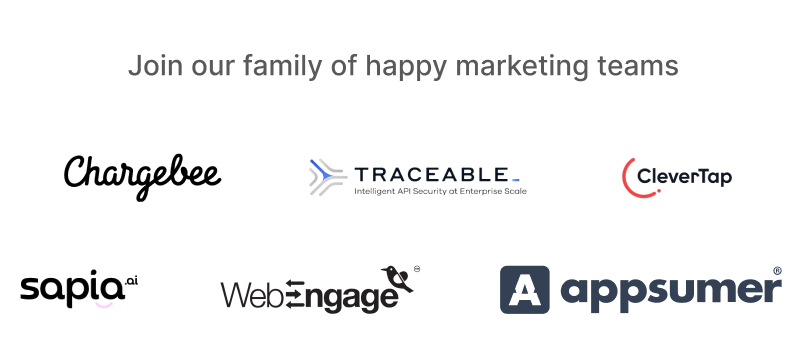
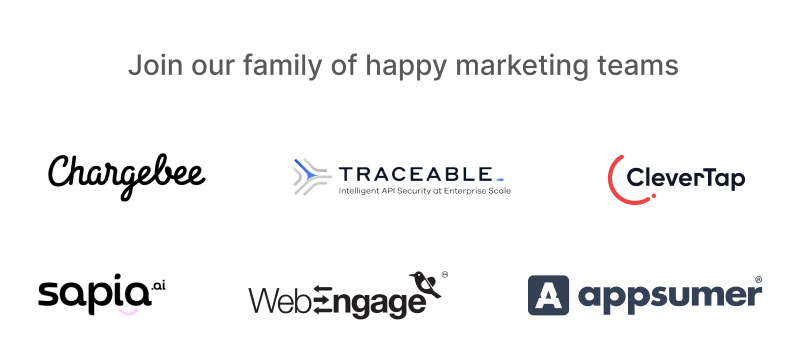
squshed issue fixes commits

diff --git a/frontend-new/src/Views/Pages/SignUp.js b/frontend-new/src/Views/Pages/SignUp.js
@@ -108,16 +108,16 @@ function SignUp({ signup }) {
               style={{ background: '#E6F7FF' }}
             >
               <div className='w-full h-screen flex items-center justify-center'>
-                <div style={{ width: 448 }}>
+                <div style={{ width: 460 }}>
                   <div className='flex justify-center items-center w-full'>
-                    <SVG name={'BrandFull'} width={238} color='white' />
+                    <SVG name={'BrandFull'} width={240} height={64} color='white' />
                   </div>
                   <div className='mt-10 flex justify-center'>
                     <Carousel
                       autoplay
                       autoplaySpeed={5000}
                       dots
-                      style={{ width: 448 }}
+                      style={{ width: 460 }}
                       className={styles.signupCarousel}
                     >
                       {[
@@ -138,8 +138,8 @@ function SignUp({ signup }) {
                       ))}
                     </Carousel>
                   </div>
-                  <div className='mt-10 flex justify-center'>
-                    <img src={HappyCustomers} className={'m-0 '} alt='brands' />
+                  <div className='mt-10 flex justify-center' >
+                    <img style={{width: 388}} src={HappyCustomers} className={'m-0 '} alt='brands' />
                   </div>
                 </div>
               </div>
@@ -163,7 +163,7 @@ function SignUp({ signup }) {
                     color={'character-primary'}
                     extraClass={'m-0'}
                   >
-                    Let’s create your account !
+                    Create your free account
                   </Text>
                 </div>
                 <div className='w-full  flex  justify-center mt-8 '>
@@ -185,7 +185,7 @@ function SignUp({ signup }) {
                           extraClass={'m-0'}
                           weight={'bold'}
                         >
-                          Signup to continue
+                          Free forever. No credit card required
                         </Text>
                       </div>
 
@@ -260,7 +260,17 @@ function SignUp({ signup }) {
                                 size={'7'}
                                 className={'m-0'}
                               >
-                                {errorInfo}
+                               
+                                {errorInfo === 'EMAIL_ALREADY_EXIST' ?  (<>Email already exists. Try logging in. {' '}
+                                  <Link
+                            disabled={dataLoading}
+                            to={{
+                              pathname: '/login'
+                            }}
+                          >
+                            Login
+                          </Link>
+                                </>): errorInfo}
                               </Text>
                             </div>
                           </Col>
@@ -305,7 +315,7 @@ function SignUp({ signup }) {
                               pathname: '/login'
                             }}
                           >
-                            Log In
+                            Log in
                           </Link>
                         </Text>
                       </div>

diff --git a/frontend-new/src/Views/Pages/Congrats.js b/frontend-new/src/Views/Pages/Congrats.js
@@ -35,8 +35,8 @@ function Congrats({ signup, data }) {
               <div
                 className='flex flex-col justify-center items-center'
                 style={{
-                  width: 400,
-                  padding: '40px 48px',
+                  width: 450,
+                  padding: '40px 48px 16px 48px',
                   borderRadius: 8,
                   border: '1px solid  #D9D9D9'
                 }}
@@ -62,7 +62,7 @@ function Congrats({ signup, data }) {
 
                 <div
                   className={
-                    'flex flex-col justify-center items-center my-4 text-center'
+                    'flex flex-col justify-center items-center mt-4 text-center'
                   }
                 >
                   <Text

diff --git a/frontend-new/src/reducers/agentActions.js b/frontend-new/src/reducers/agentActions.js
@@ -177,7 +177,7 @@ export function signup(data) {
             resolve(r);
           } else {
             dispatch({ type: 'AGENT_SIGNUP_REJECTED', payload: null });
-            reject('Email already exists. Try logging in.');
+            reject('EMAIL_ALREADY_EXIST')
           }
         })
         .catch(() => {

diff --git a/frontend-new/src/Views/Pages/Login.js b/frontend-new/src/Views/Pages/Login.js
@@ -84,7 +84,7 @@ function Login(props) {
 
   return (
     <>
-      <div className={'fa-container'}>
+      <div className={'fa-container h-screen relative'}>
         <Row justify={'center'} className={`${styles.start}`}>
           <Col span={24}>
             <LoggedOutScreenHeader />

diff --git a/frontend-new/src/Views/Pages/ResetPassword.js b/frontend-new/src/Views/Pages/ResetPassword.js
@@ -61,7 +61,7 @@ function ResetPassword(props) {
 
   return (
     <>
-      <div className={'fa-container'}>
+      <div className={'fa-container h-screen relative'}>
         <Row justify={'center'}>
           <Col span={24}>
             <LoggedOutScreenHeader />

diff --git a/frontend-new/src/Views/Pages/Activate.js b/frontend-new/src/Views/Pages/Activate.js
@@ -93,7 +93,7 @@ function Activate(props) {
 
   return (
     <>
-      <div className={'fa-container h-screen'}>
+      <div className={'fa-container h-screen relative'}>
         <LoggedOutScreenHeader />
         <div className='text-center'>
           <Text
